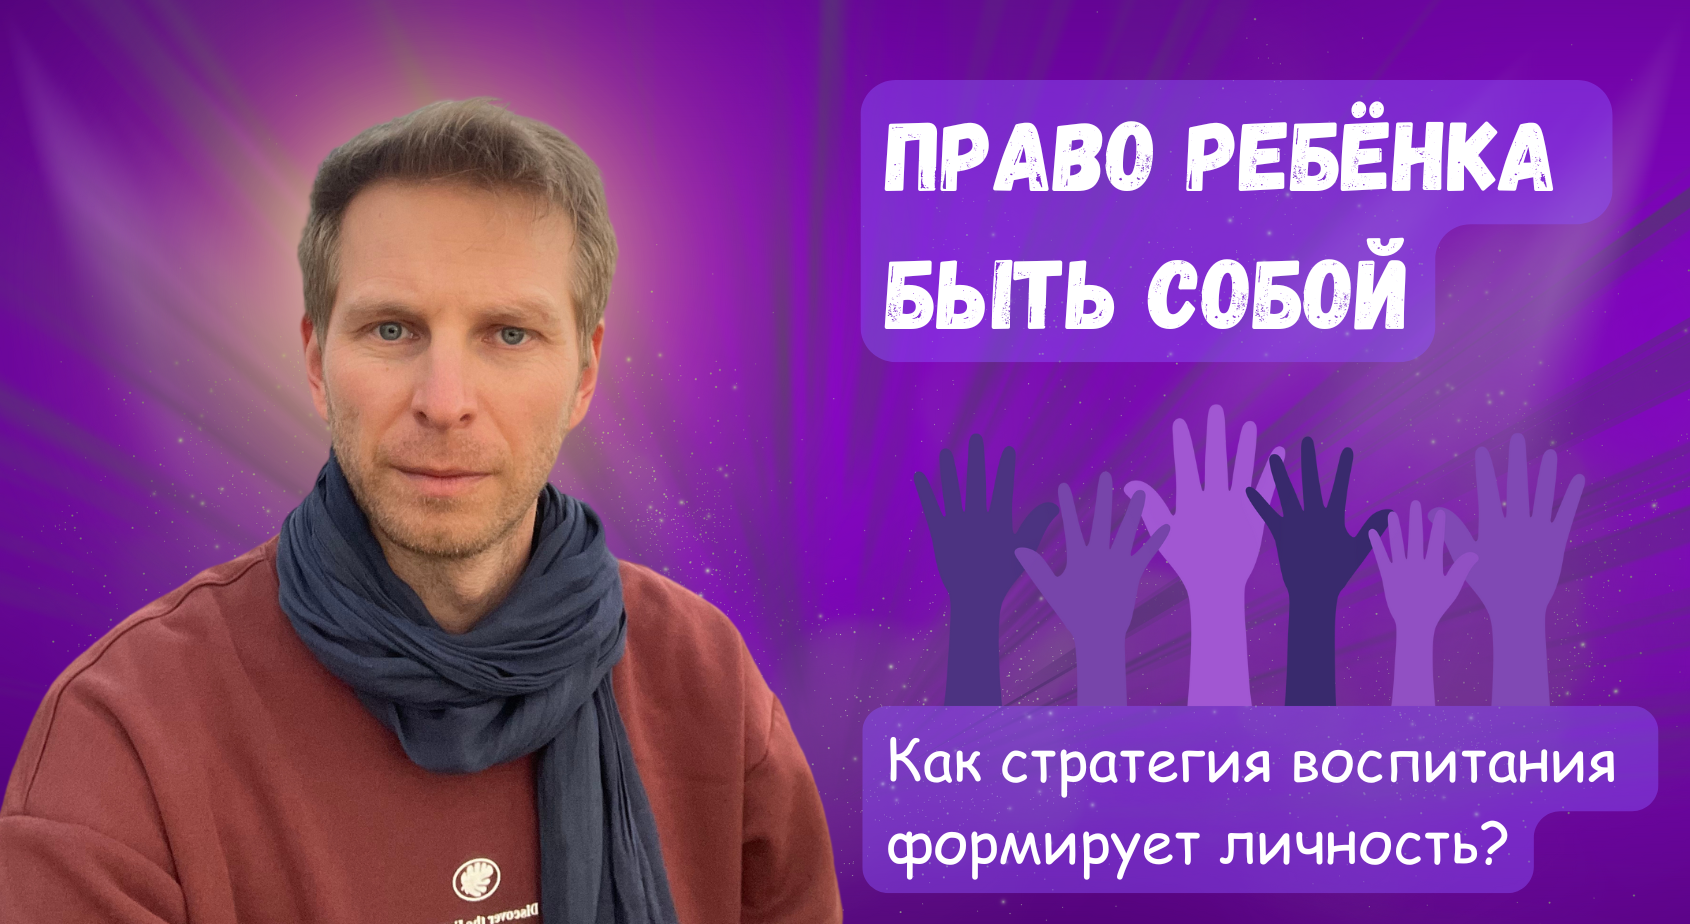
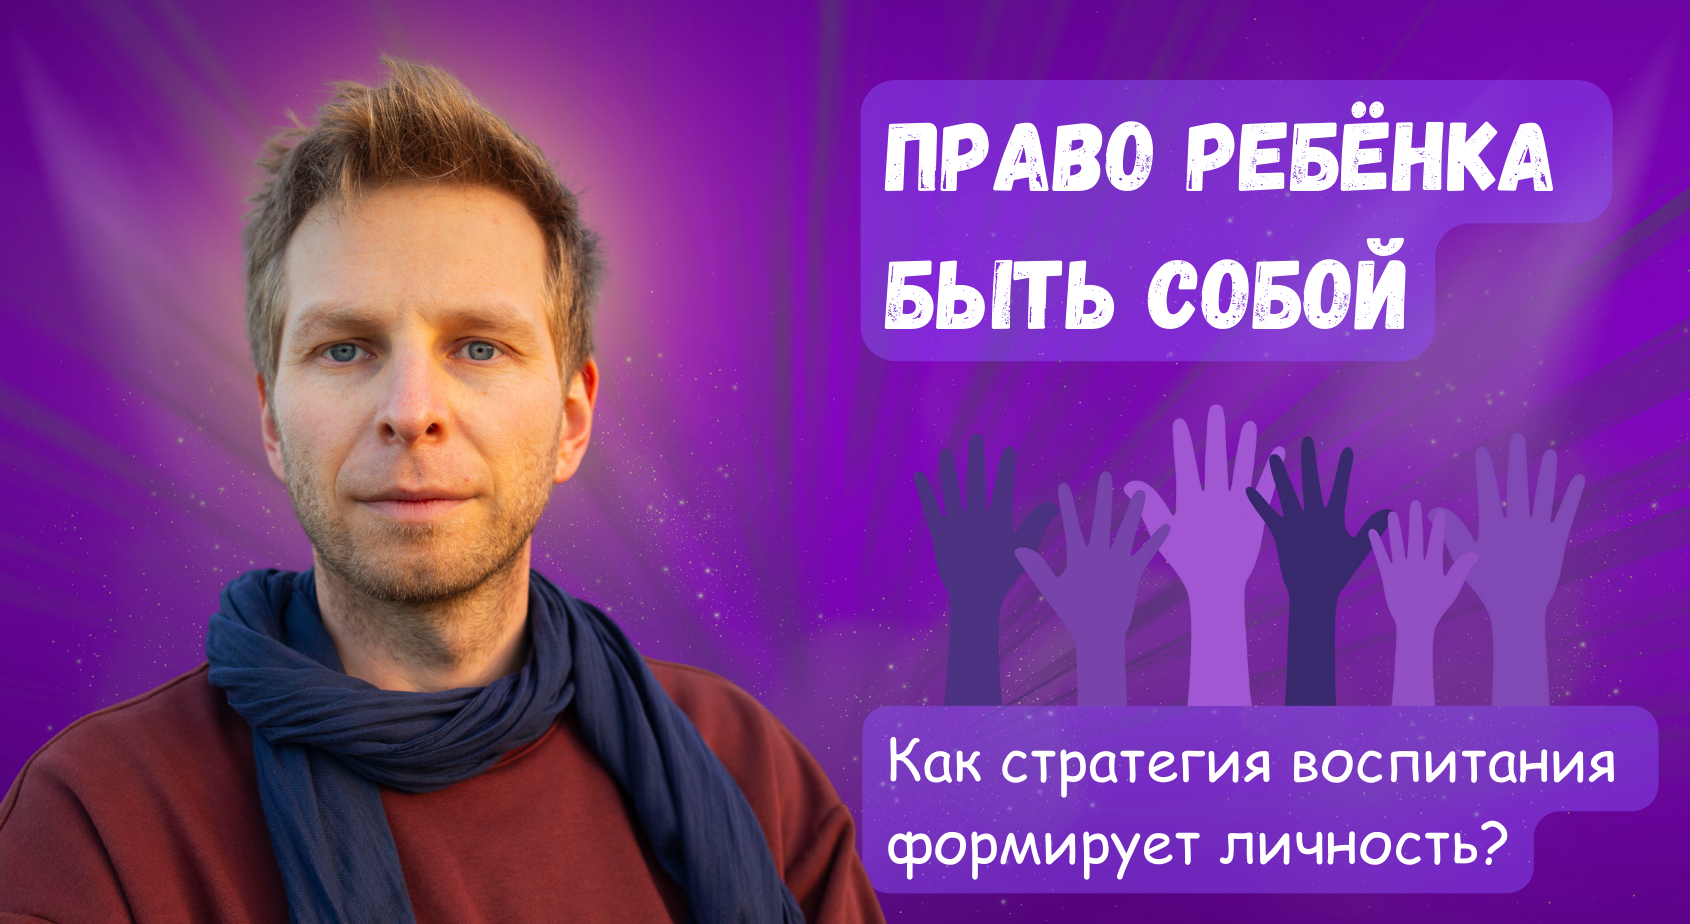
wip

Changed region(s): [[0.0, 0.0606, 0.5231, 1.0]]

diff --git a/adolts_reading.ua.md b/adolts_reading.ua.md
@@ -6,7 +6,7 @@ lang: ua
 show_header: false
 ---
 
-![Alt text](/assets/images/funnel2/funnel2_banner.png){: .img}
+![Alt text](/assets/images/funnel4/funnel4_banner.png){: .img}
 
 ### Какой еще дизайн?
 
@@ -23,4 +23,14 @@ show_header: false
 - согласен. В двух словах не опишешь, но если сказанное выше тебя зацепило, пиши. 
 - выдам тебе карту и компас. Точнее, и карта, и компас - это ты, а я предлагаю инструкцию по эксплуатации. Пользоваться ей или нет - решать тебе, так же, как и судить о правдивости.
 
+### Вот что люди говорят
+
 {% include reviews_adolts.html %}
+
+### Как устроены консультации
+
+- длительность: 2 часа
+- стоимость: 150 евро 
+- в Берлине или онлайн
+- Язык: Украинский Русский Английский
+
